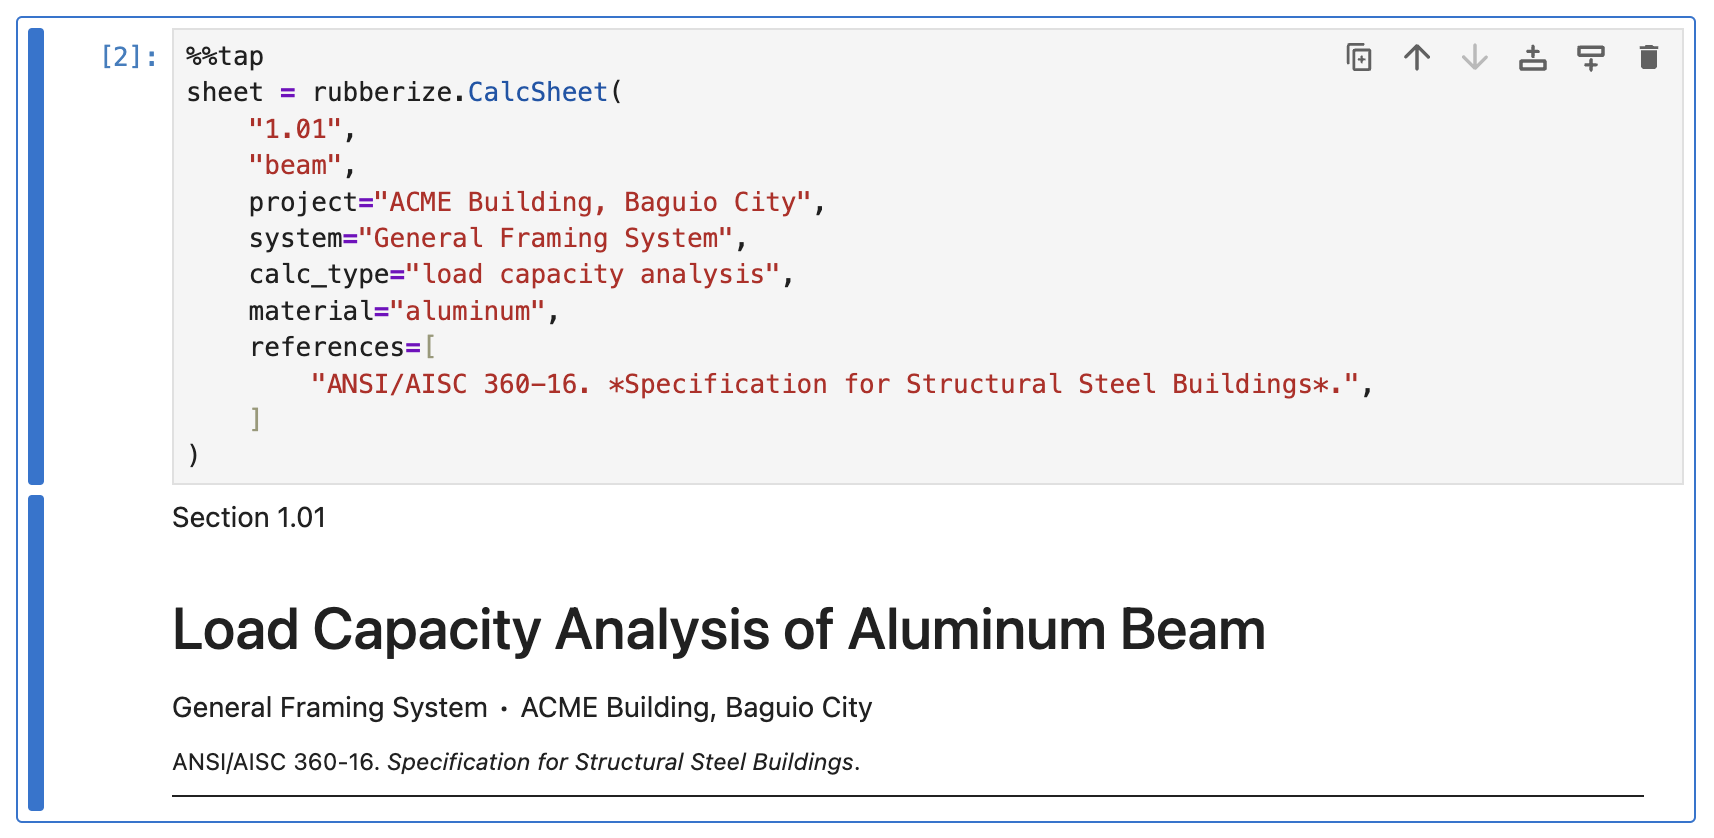
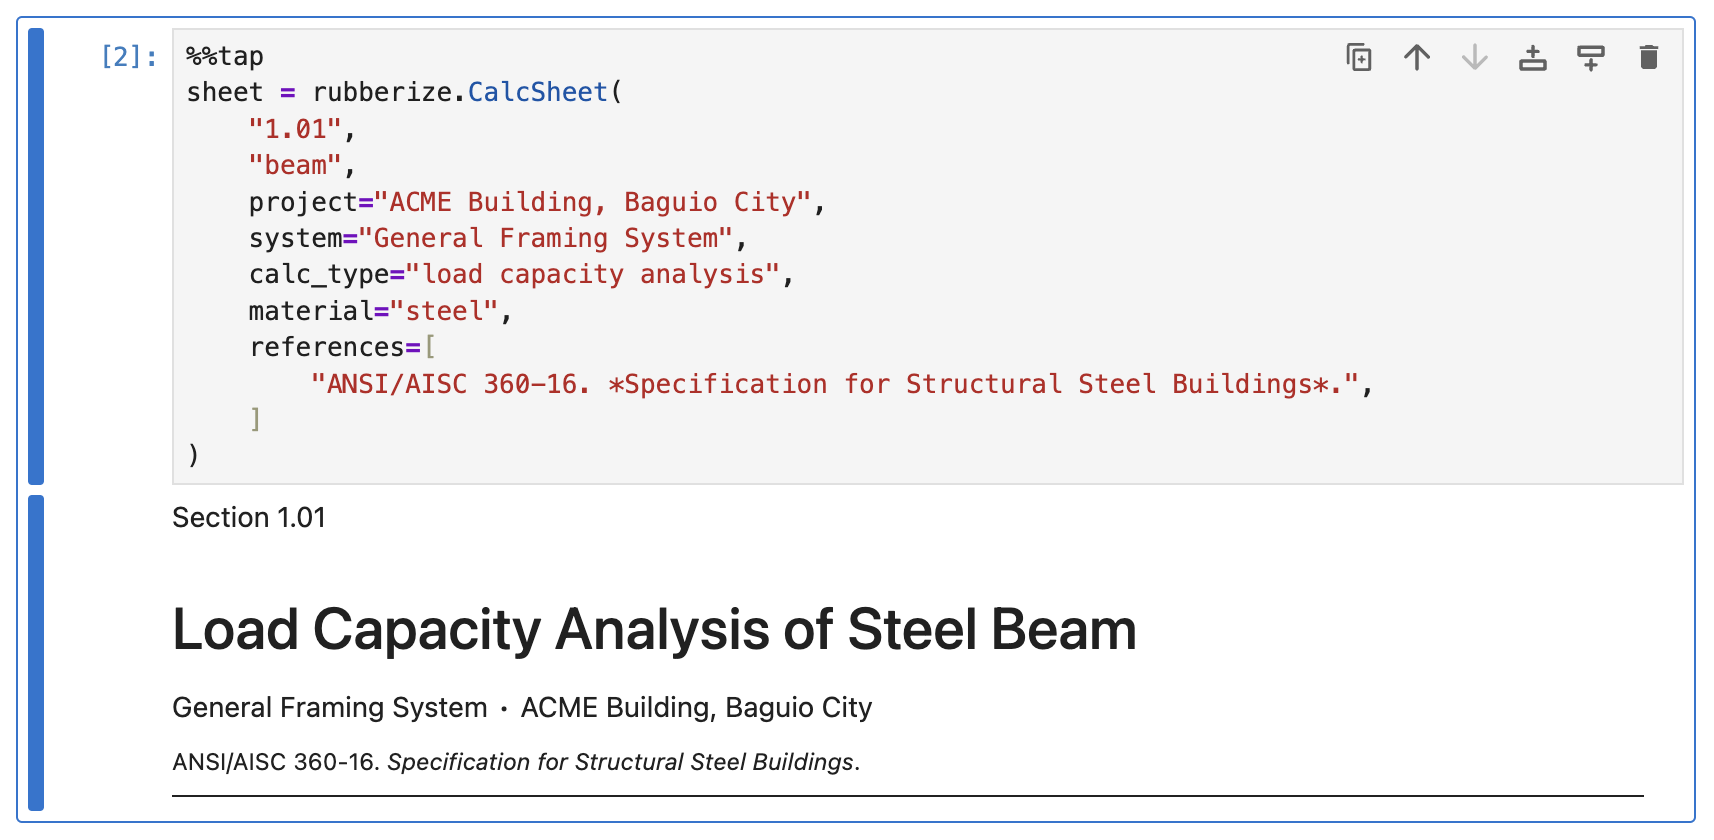
docs(getting_started): fix calc sheet example

diff --git a/docs/getting_started.md b/docs/getting_started.md
@@ -148,7 +148,7 @@ sheet = rubberize.CalcSheet(
     project="ACME Building, Baguio City",
     system="General Framing System",
     calc_type="load capacity analysis",
-    material="aluminum",
+    material="steel",
     references=[
         "ANSI/AISC 360-16. *Specification for Structural Steel Buildings*.",
     ]
